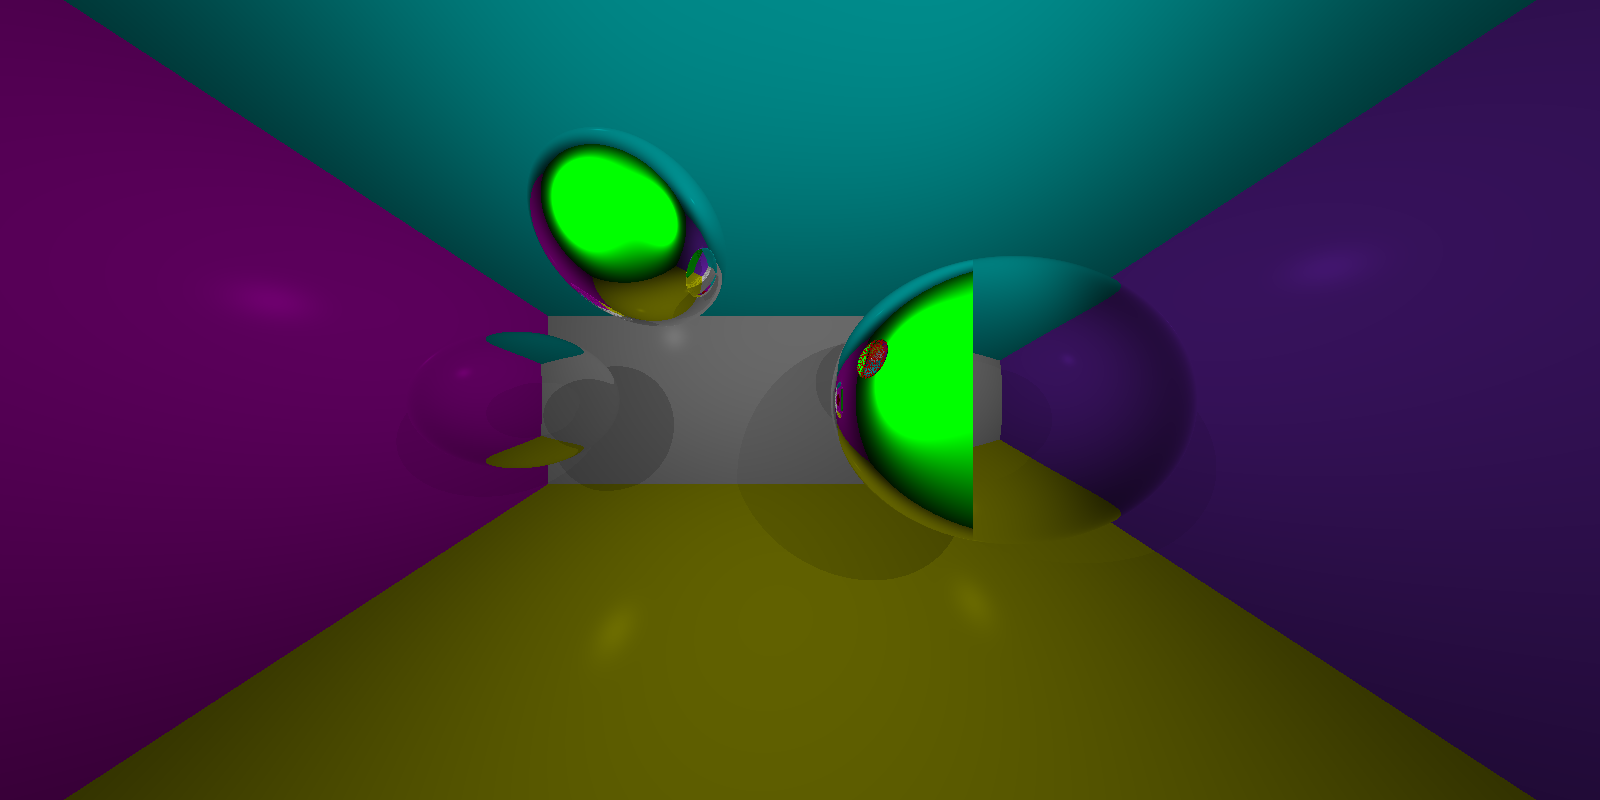
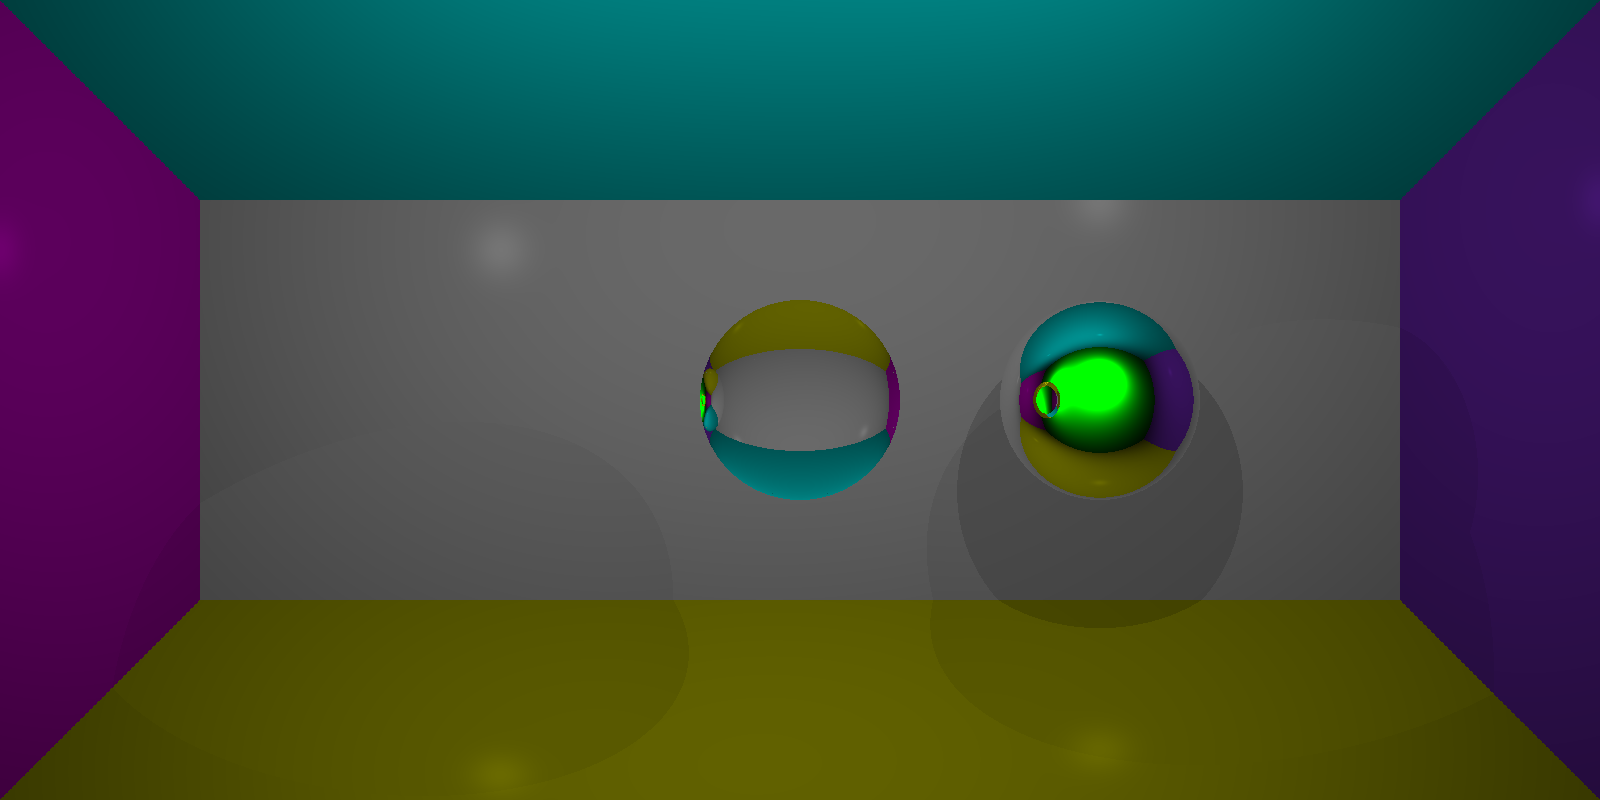
END VERSION

diff --git a/src/main/java/fgk/zad1/main/Tracer.java b/src/main/java/fgk/zad1/main/Tracer.java
@@ -10,7 +10,7 @@ import java.awt.*;
 import java.util.List;
 
 public class Tracer {
-    public static final int maxReccuresion =5;
+    public static final int maxReccuresion =4;
 
 
     /**Ray tracing brute Force
@@ -60,7 +60,7 @@ public class Tracer {
                                     float distancev1=  source.getSourcePoint().vecSub(vector).lengthOfVector();
                                     float distance = source.getSourcePoint().vecSub(intersetion).lengthOfVector();
 
-                                    if (distancev1>=distance-1){
+                                    if (distancev1>=distance){
 
                                         Material material = graphicsObject.getMaterial();
                                         Vector3 normal = graphicsObject.getNormal(intersetion);
@@ -123,10 +123,9 @@ public class Tracer {
             Vector3 reflected = ray.getDirection().reflect(normal);
             Ray reflectedRay = new Ray(intersection, reflected);
             GraphicsObject graphicsObject1 = reflectedRay.checkFirstIntersectObject(true);
-            if(graphicsObject1!=null&&!graphicsObject1.equals(graphicsObject))
+            if(graphicsObject1!=null)
             {   Vector3 section =  graphicsObject1.checkSectionReturnVector(reflectedRay);
-               if(section!=null)
-               {
+
                    if(graphicsObject1.getMaterial().mirror)
                    {
                        int i =0;
@@ -134,22 +133,19 @@ public class Tracer {
                    }
                    else if(graphicsObject1.getMaterial().transparent)
                    {
+                       reflectedRay = new Ray(intersection, reflected);
                        int i =0;
                        return transparentRecuression(i, reflectedRay,graphicsObject1 , result,section );
                    }
                    else
-                   {      Vector3 result1 = calculateResult(section,graphicsObject1);
+                   {
+
+                       Vector3 result1 = calculateResult(section,graphicsObject1);
                        return new Lightintencity(result1.getX()*graphicsObject1.getColor().getR(),
                                result1.getY()*graphicsObject1.getColor().getG(),
                                result1.getZ()*graphicsObject1.getColor().getB());
                    }
-               }
-               else
-               {   Vector3 result1 = calculateResult(section,graphicsObject1);
-                   return new Lightintencity(result1.getX()*graphicsObject.getColor().getR(),
-                           result1.getY()*graphicsObject.getColor().getG(),
-                           result1.getZ()*graphicsObject.getColor().getB());
-               }
+
 
             }
             else
@@ -162,13 +158,13 @@ public class Tracer {
             Vector3 vec1 =   ray.getDirection().normalizeProduct();
             float lambda1 = graphicsObject.getMaterial().getTransparent_d();
              //dziwne  Vector3 normal = graphicsObject.getNormal(intersection).scalMulti(-1);
-                Vector3 normal = graphicsObject.getNormal(intersection).scalMulti(-1);
+                Vector3 normal = graphicsObject.getNormal(intersection);
                 Vector3 directionInside = calculateTransparent(vec1, normal,1,lambda1);
                 Ray insideRay = new Ray(intersection,directionInside);
                     GraphicsObject graphicsObject1 = insideRay.checkFirstIntersectObject(true);
                     if(graphicsObject1!=null)
                     { int i =0;
-                        Vector3 intersectionGraphicObject1 = graphicsObject1.checkSectionReturnVector(insideRay );
+                        Vector3 intersectionGraphicObject1 = graphicsObject1.checkSectionReturnVectorTransparent(insideRay );
                             if (graphicsObject1.getMaterial().mirror) {
                                 return mirrorRecurresion(i, insideRay, graphicsObject1, result, intersectionGraphicObject1);
                             } else if (graphicsObject1.getMaterial().transparent) {
@@ -179,7 +175,6 @@ public class Tracer {
                                         result1.getY() * graphicsObject1.getColor().getG(),
                                         result1.getZ() * graphicsObject1.getColor().getB());
                             }
-
                     }
                     else
                     {
@@ -187,8 +182,6 @@ public class Tracer {
                                 Driver.world.background.getG(),
                                 Driver.world.background.getB());
                     }
-
-
         }
         else
         {
@@ -198,24 +191,25 @@ public class Tracer {
         }
     }
     //Transparent Recuression
-    public Lightintencity transparentRecuression(int i,Ray ray, GraphicsObject graphicsObject,  Vector3 result,Vector3 intersection) throws InterruptedException {
-
+    public Lightintencity transparentRecuression(int i,Ray ray, GraphicsObject graphicsObject,  Vector3 result,Vector3 intersection) throws Exception {
             i++;
-
-            Vector3 innerRayDirection = calculateTransparent(ray.getDirection(), graphicsObject.getNormal(intersection).scalMulti(-1), 1, graphicsObject.getMaterial().getTransparent_d());
+            Vector3 innerRayDirection = calculateTransparent(ray.getDirection(), graphicsObject.getNormal(intersection), 1, graphicsObject.getMaterial().getTransparent_d());
             Ray innerRay = new Ray(intersection, innerRayDirection);
-            Vector3 section = graphicsObject.checkSectionReturnVectorTransparent(innerRay);
+
 
                 GraphicsObject graphicsObject1 = innerRay.checkFirstIntersectObject(true);
                 if (graphicsObject1 != null) {
+                    Vector3 section = graphicsObject1.checkSectionReturnVectorTransparent(innerRay);
                     if(i<maxReccuresion)
                     {
                         if (graphicsObject1.getMaterial().mirror) {
+
+
                             return mirrorRecurresion(i, innerRay, graphicsObject1, result, section);
                         } else if (graphicsObject1.getMaterial().transparent) {
                             return transparentRecuression(i, innerRay, graphicsObject1, result, section);
                         } else {
-                            //TU Błąd
+
                             Vector3 result1 = calculateResult(section,graphicsObject1);
                             return new Lightintencity(result1.getX()*graphicsObject1.getColor().getR(),
                                     result1.getY()*graphicsObject1.getColor().getG(),
@@ -235,14 +229,9 @@ public class Tracer {
                             result1.getY()*graphicsObject.getColor().getG(),
                             result1.getZ()*graphicsObject.getColor().getB());
                 }
-
-
-
-
-
     }
     //Mirror reccuresion
-    public Lightintencity mirrorRecurresion(int i,Ray ray, GraphicsObject graphicsObject,  Vector3 result,Vector3 intersection) throws InterruptedException {
+    public Lightintencity mirrorRecurresion(int i,Ray ray, GraphicsObject graphicsObject,  Vector3 result,Vector3 intersection) throws Exception {
 
         if(i < maxReccuresion)
         {
@@ -251,7 +240,7 @@ public class Tracer {
             Vector3 reflectedDirection = ray.getDirection().reflect(normal);
             Ray reflectedRay = new Ray(intersection,reflectedDirection);
             GraphicsObject graphicsObject1 = reflectedRay.checkFirstIntersectObject(true);
-            if(graphicsObject1!=null&&!graphicsObject1.equals(graphicsObject))
+            if(graphicsObject1!=null)
             {
                 Vector3 section = graphicsObject1.checkSectionReturnVector(reflectedRay);
                 if(graphicsObject1.getMaterial().mirror)
@@ -292,19 +281,18 @@ public class Tracer {
 
     }
     //Calculate transparent
-    public Vector3 calculateTransparent(Vector3 direction, Vector3 normal, float diffuse1, float diffuse2)
-    {
+    public Vector3 calculateTransparent(Vector3 direction, Vector3 normal, float diffuse1, float diffuse2) throws Exception {
+        direction.normalize();
+        normal.normalize();
+        float cos01 = direction.scalProd(normal);
 
-        float cos01 = direction.scalProd(normal)*(-1);
         float sin01 = (float)Math.sqrt((1 -  Math.pow(cos01,2)));
-        sin01 = Math.abs(cos01);
+        sin01 = Math.abs(sin01);
         float cos02 = (float) Math.sqrt(1- (diffuse1*diffuse1*(1-cos01*cos01)/(diffuse2*diffuse2)));
-        cos02 = Math.abs(cos02);
+
         float sin02 = (float) Math.sqrt(1-Math.pow(cos02,2));
-        sin02 = Math.abs(sin02);
+
         Vector3 b = direction.vecAdd(normal.scalMulti(cos01)).scalDiv(sin01);
-
-
            return  b.scalMulti(sin02).vecSub(normal.scalMulti(cos02));
 
     }
@@ -319,7 +307,7 @@ public class Tracer {
                 Vector3 lightDir = source.getSourcePoint().vecSub(intersetion).scalMulti(-1);
                 lightDir.normalize();
                 Ray shadowRay = new Ray(intersetion, lightDir);
-                GraphicsObject firstBumpedObject = shadowRay.checkFirstIntersectObjectWithShadow(true);
+                GraphicsObject firstBumpedObject = shadowRay.checkFirstIntersectObject(true);
                 if (firstBumpedObject != null) {
                     Vector3 vector = firstBumpedObject.checkSectionReturnVector(shadowRay);
                     float distancev1=  source.getSourcePoint().vecSub(vector).lengthOfVector();
@@ -349,7 +337,7 @@ public class Tracer {
                         if (diff < 0) diff = 0;
                         float spec = (float) Math.pow(lightDir.scalProd(reflect), source.shiness);
                         float attenuation = (float) (source.shiness / (distance));
-                        Vector3 result = material.getAmbientKa().scalMulti(attenuation).scalMulti(0.5f);
+                        Vector3 result = material.getAmbientKa().scalMulti(0.5f);
                         color = color.vecAdd(result);
 
                     }

diff --git a/src/main/java/fgk/zad1/scene/World.java b/src/main/java/fgk/zad1/scene/World.java
@@ -65,16 +65,14 @@ public class World {
     //                    new Vector3(0.4f,0.4f,0.4f),5f,trues,false)));
 
 
+        objects.add(new Sphere(new Vector3(300,0,100),100,new Lightintencity(1f,1f,0f),
+                new Material(new Vector3(0.4f,0.4f,0.4f),new Vector3(0.4f,0.4f,0.4f),
+                        new Vector3(0.4f,0.4f,0.4f),0f,true,false)));
 
-        objects.add(new Sphere(new Vector3(350,0,150),159,new Lightintencity(1f,1f,0f),
-                new Material(new Vector3(0.4f,0.4f,0.4f),new Vector3(0.4f,0.4f,0.4f),
-                        new Vector3(0.4f,0.4f,0.4f),6f,false,true)));
-        objects.add(new Sphere(new Vector3(-100,100,300),50,new Lightintencity(1f,0f,0f),
-                new Material(new Vector3(0.4f,0.4f,0.4f),new Vector3(0.4f,0.4f,0.4f),
-                        new Vector3(0.4f,0.4f,0.4f),1f,true,false)));
-        objects.add(new Sphere(new Vector3(-400,000,100),100,new Lightintencity(1f,0f,0f),
-                new Material(new Vector3(0.4f,0.4f,0.4f),new Vector3(0.4f,0.4f,0.4f),
-                        new Vector3(0.4f,0.4f,0.4f),4f,false,true)));
+
+        objects.add(new Sphere(new Vector3(0,0,300),100,new Lightintencity(1f,1f,0f),
+               new Material(new Vector3(0.4f,0.4f,0.4f),new Vector3(0.4f,0.4f,0.4f),
+                       new Vector3(0.4f,0.4f,0.4f),1.5f,false,true)));
         objects.add(new Surface(new Vector3(400,200,-100), new Vector3(0,0,1),new Lightintencity(1f,1f,1f),
                new Material(new Vector3(0.4f,0.4f,0.4f),new Vector3(0.4f,0.4f,0.4f),
                        new Vector3(0.4f,0.4f,0.4f),5f,false,false)));

diff --git a/src/main/java/fgk/zad1/main/Driver.java b/src/main/java/fgk/zad1/main/Driver.java
@@ -38,8 +38,8 @@ public class Driver {
         tracer = new Tracer();
         //    sampler = new AdaptiveSampler(0.05f,0.05f,0.05f,100,100);
         sampler = new RegularSample(1);
-    //     camera=new OrthogonalCamera();
-      camera = new PerspectivalCamera(new Vector3(0, 0, 450), new Vector3(0, 0, -1), 60);
+      camera=new OrthogonalCamera();
+   //   camera = new PerspectivalCamera(new Vector3(0, 0, 450), new Vector3(0, 0, -1), 60);
 
         //listOfSources.add(new PointSource(new Vector3(1000,100,100),new Lightintencity(0.5f,0.5f,0.5f),2f));
           listOfSources.add(new PointSource(new Vector3(300,200,600),new Lightintencity(0.5f,0.5f,0.5f),300f));

diff --git a/src/main/java/fgk/zad1/basics/Ray.java b/src/main/java/fgk/zad1/basics/Ray.java
@@ -71,7 +71,7 @@ public  class  Ray {
 
                float distancev2 = object.checkSection(this);
 
-            if(distancev2>0)
+            if(distancev2>-1)
             {
                 if (distance>distancev2&&distancev2!=0)
                 {
@@ -110,7 +110,6 @@ public  class  Ray {
             }
 
         }
-
         return graphicsObject;
     }
 }

diff --git a/src/main/java/fgk/zad1/material/Material.java b/src/main/java/fgk/zad1/material/Material.java
@@ -8,8 +8,8 @@ public class Material {
     private  float Ns;
     private  Vector3 DiffuseKd;
     private float Transparent_d;
-    public boolean mirror;
-    public boolean transparent;
+    public boolean mirror=false;
+    public boolean transparent=false;
 
     @Override
     public String toString() {
